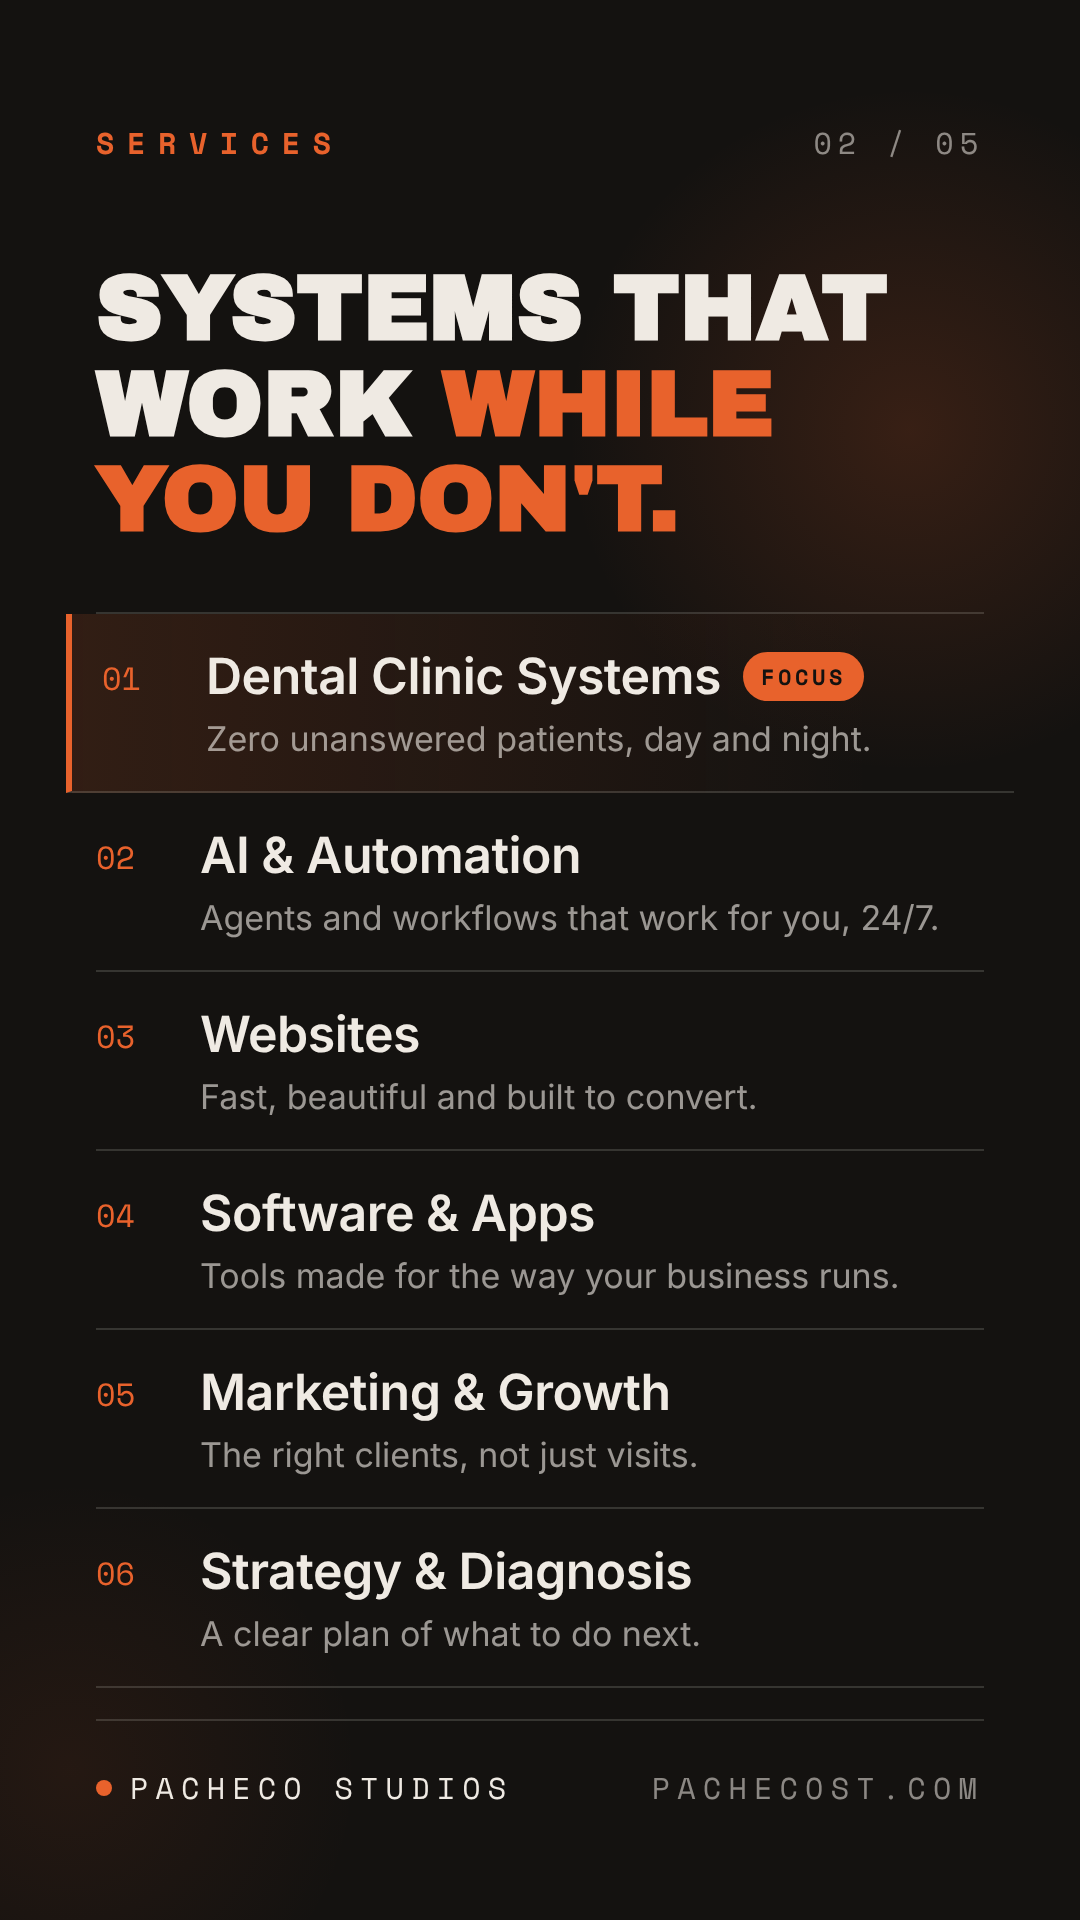
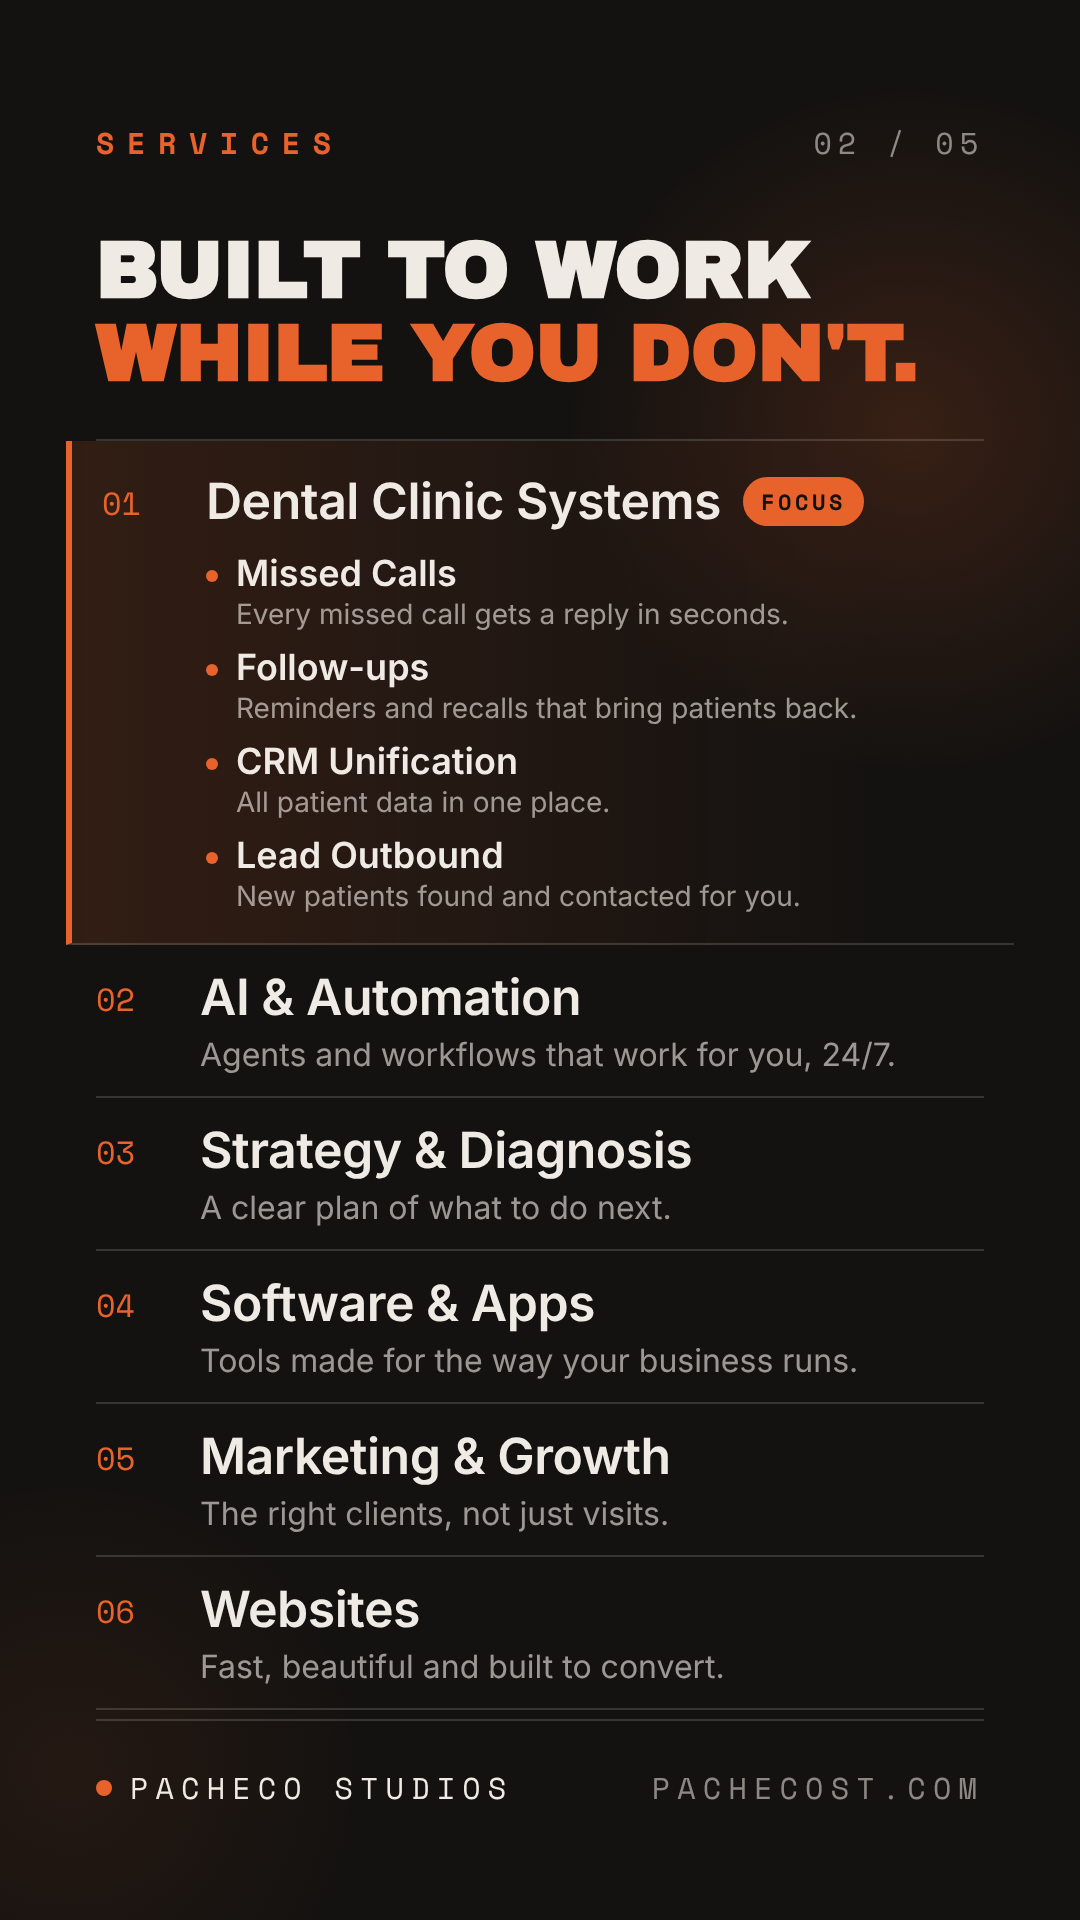
Destaques EN: Services com sub-serviços dentários e nova ordem
Claude-Session: https://claude.ai/code/session_01FsuwmYDfHqravVMwy3uThB

diff --git a/social/destaques-en-2026-10-31/02-services.html b/social/destaques-en-2026-10-31/02-services.html
@@ -24,19 +24,24 @@ h1 .o,.o{color:var(--o)}
 .foot .ig{color:var(--dim)}
 .btn{display:inline-flex;align-items:center;gap:18px;background:var(--o);color:#141210;font-family:"Space Mono",monospace;font-weight:700;font-size:34px;letter-spacing:.14em;text-transform:uppercase;border-radius:999px;padding:30px 56px}
 
-.list{margin-top:64px;border-top:2px solid var(--line)}
-.row{display:flex;gap:44px;padding:32px 0;border-bottom:2px solid var(--line)}
+.list{margin-top:44px;border-top:2px solid var(--line)}
+.row{display:flex;gap:44px;padding:22px 0;border-bottom:2px solid var(--line)}
 .row .n{font-family:"Space Mono";font-size:32px;color:var(--o);padding-top:8px;min-width:60px}
 .row .t{font-size:50px;font-weight:600;letter-spacing:-.01em;display:flex;align-items:center;gap:22px}
-.row .d{margin-top:12px;font-size:34px;color:rgba(239,234,227,.62)}
-.row.feat{background:linear-gradient(90deg,rgba(232,98,44,.14),transparent 85%);margin:0 -30px;padding:32px 30px;border-left:6px solid var(--o)}
+.row .d{margin-top:8px;font-size:32px;color:rgba(239,234,227,.62)}
+.row.feat{background:linear-gradient(90deg,rgba(232,98,44,.14),transparent 85%);margin:0 -30px;padding:30px 30px;border-left:6px solid var(--o)}
+.sub{margin-top:20px;display:flex;flex-direction:column;gap:14px}
+.si{display:flex;gap:18px;align-items:baseline}
+.sd{flex:none;width:12px;height:12px;border-radius:50%;background:var(--o);transform:translateY(-4px)}
+.si b{display:block;font-size:36px;font-weight:600}
+.si span:not(.sd){display:block;font-size:28px;color:rgba(239,234,227,.62);margin-top:2px}
 .badge{font-family:"Space Mono";font-weight:700;font-size:22px;letter-spacing:.16em;text-transform:uppercase;background:var(--o);color:#141210;border-radius:999px;padding:8px 18px}
 </style></head><body>
 <div class="glow"></div><div class="glow2"></div>
 <div class="frame">
 <div class="top"><span class="tag">SERVICES</span><span class="num">02&nbsp;/&nbsp;05</span></div>
 
-<h1>Systems that work <span class="o">while you don't.</span></h1>
-<div class="list"><div class="row feat"><span class="n">01</span><div><div class="t">Dental Clinic Systems <span class="badge">Focus</span></div><div class="d">Zero unanswered patients, day and night.</div></div></div><div class="row"><span class="n">02</span><div><div class="t">AI &amp; Automation</div><div class="d">Agents and workflows that work for you, 24/7.</div></div></div><div class="row"><span class="n">03</span><div><div class="t">Websites</div><div class="d">Fast, beautiful and built to convert.</div></div></div><div class="row"><span class="n">04</span><div><div class="t">Software &amp; Apps</div><div class="d">Tools made for the way your business runs.</div></div></div><div class="row"><span class="n">05</span><div><div class="t">Marketing &amp; Growth</div><div class="d">The right clients, not just visits.</div></div></div><div class="row"><span class="n">06</span><div><div class="t">Strategy &amp; Diagnosis</div><div class="d">A clear plan of what to do next.</div></div></div></div>
+<h1 style="font-size:80px;margin-top:64px">Built to work<br><span class="o">while you don't.</span></h1>
+<div class="list"><div class="row feat"><span class="n">01</span><div><div class="t">Dental Clinic Systems <span class="badge">Focus</span></div><div class="sub"><div class="si"><span class="sd"></span><div><b>Missed Calls</b><span>Every missed call gets a reply in seconds.</span></div></div><div class="si"><span class="sd"></span><div><b>Follow-ups</b><span>Reminders and recalls that bring patients back.</span></div></div><div class="si"><span class="sd"></span><div><b>CRM Unification</b><span>All patient data in one place.</span></div></div><div class="si"><span class="sd"></span><div><b>Lead Outbound</b><span>New patients found and contacted for you.</span></div></div></div></div></div><div class="row"><span class="n">02</span><div><div class="t">AI &amp; Automation</div><div class="d">Agents and workflows that work for you, 24/7.</div></div></div><div class="row"><span class="n">03</span><div><div class="t">Strategy &amp; Diagnosis</div><div class="d">A clear plan of what to do next.</div></div></div><div class="row"><span class="n">04</span><div><div class="t">Software &amp; Apps</div><div class="d">Tools made for the way your business runs.</div></div></div><div class="row"><span class="n">05</span><div><div class="t">Marketing &amp; Growth</div><div class="d">The right clients, not just visits.</div></div></div><div class="row"><span class="n">06</span><div><div class="t">Websites</div><div class="d">Fast, beautiful and built to convert.</div></div></div></div>
 <div class="foot"><span class="brand"><span class="dot"></span>PACHECO STUDIOS</span><span class="ig">PACHECOST.COM</span></div>
 </div></body></html>

diff --git a/social/destaques-en-2026-10-31/build.py b/social/destaques-en-2026-10-31/build.py
@@ -63,27 +63,39 @@ s1 = page("THE STUDIO", "01", """
 
 # ---------- 02 SERVICES ----------
 services = [
-    ("Dental Clinic Systems", "Zero unanswered patients, day and night.", True),
+    ("Dental Clinic Systems", "", True),
     ("AI &amp; Automation", "Agents and workflows that work for you, 24/7.", False),
-    ("Websites", "Fast, beautiful and built to convert.", False),
+    ("Strategy &amp; Diagnosis", "A clear plan of what to do next.", False),
     ("Software &amp; Apps", "Tools made for the way your business runs.", False),
     ("Marketing &amp; Growth", "The right clients, not just visits.", False),
-    ("Strategy &amp; Diagnosis", "A clear plan of what to do next.", False),
+    ("Websites", "Fast, beautiful and built to convert.", False),
 ]
+dental = [
+    ("Missed Calls", "Every missed call gets a reply in seconds."),
+    ("Follow-ups", "Reminders and recalls that bring patients back."),
+    ("CRM Unification", "All patient data in one place."),
+    ("Lead Outbound", "New patients found and contacted for you."),
+]
+dental_html = '<div class="sub">' + "".join(f'<div class="si"><span class="sd"></span><div><b>{t}</b><span>{d}</span></div></div>' for t, d in dental) + '</div>'
 rows = "".join(
-    f"""<div class="row{' feat' if f else ''}"><span class="n">{i:02d}</span><div><div class="t">{t}{' <span class="badge">Focus</span>' if f else ''}</div><div class="d">{d}</div></div></div>"""
+    f"""<div class="row{' feat' if f else ''}"><span class="n">{i:02d}</span><div><div class="t">{t}{' <span class="badge">Focus</span>' if f else ''}</div>{dental_html if f else f'<div class="d">{d}</div>'}</div></div>"""
     for i, (t, d, f) in enumerate(services, 1))
 s2_css = """
-.list{margin-top:64px;border-top:2px solid var(--line)}
-.row{display:flex;gap:44px;padding:32px 0;border-bottom:2px solid var(--line)}
+.list{margin-top:44px;border-top:2px solid var(--line)}
+.row{display:flex;gap:44px;padding:22px 0;border-bottom:2px solid var(--line)}
 .row .n{font-family:"Space Mono";font-size:32px;color:var(--o);padding-top:8px;min-width:60px}
 .row .t{font-size:50px;font-weight:600;letter-spacing:-.01em;display:flex;align-items:center;gap:22px}
-.row .d{margin-top:12px;font-size:34px;color:rgba(239,234,227,.62)}
-.row.feat{background:linear-gradient(90deg,rgba(232,98,44,.14),transparent 85%);margin:0 -30px;padding:32px 30px;border-left:6px solid var(--o)}
+.row .d{margin-top:8px;font-size:32px;color:rgba(239,234,227,.62)}
+.row.feat{background:linear-gradient(90deg,rgba(232,98,44,.14),transparent 85%);margin:0 -30px;padding:30px 30px;border-left:6px solid var(--o)}
+.sub{margin-top:20px;display:flex;flex-direction:column;gap:14px}
+.si{display:flex;gap:18px;align-items:baseline}
+.sd{flex:none;width:12px;height:12px;border-radius:50%;background:var(--o);transform:translateY(-4px)}
+.si b{display:block;font-size:36px;font-weight:600}
+.si span:not(.sd){display:block;font-size:28px;color:rgba(239,234,227,.62);margin-top:2px}
 .badge{font-family:"Space Mono";font-weight:700;font-size:22px;letter-spacing:.16em;text-transform:uppercase;background:var(--o);color:#141210;border-radius:999px;padding:8px 18px}
 """
 s2 = page("SERVICES", "02", f"""
-<h1>Systems that work <span class="o">while you don't.</span></h1>
+<h1 style="font-size:80px;margin-top:64px">Built to work<br><span class="o">while you don't.</span></h1>
 <div class="list">{rows}</div>""", foot_right="PACHECOST.COM", extra_css=s2_css)
 
 # ---------- 03 PARTNERS ----------
